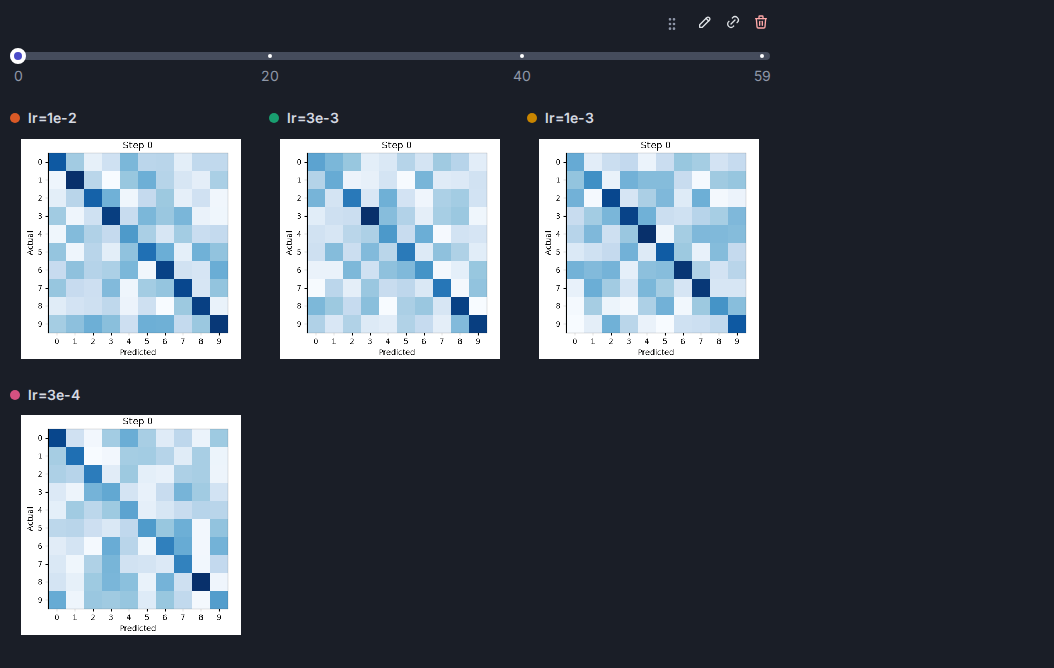
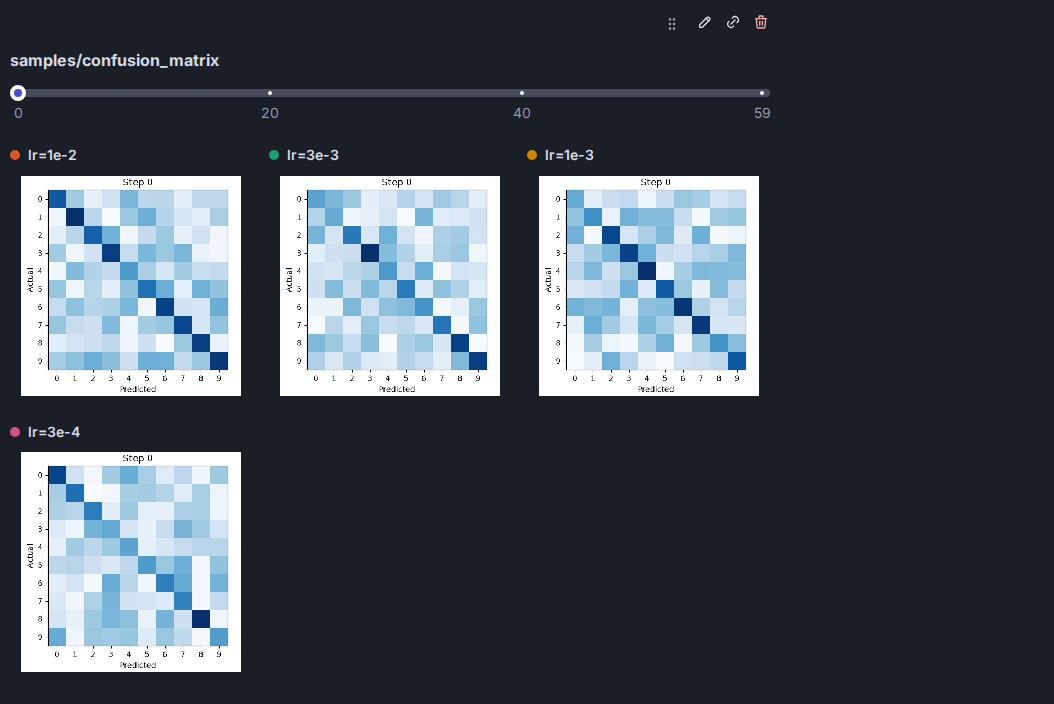
Title image-series charts, fill their width, and lock their sliders in synced panels
The chart is titled with its artifact key. A grid uses no more columns than it
has runs, so a lone run's image spans the chart rather than a third of it.
With a panel's sync on, moving one image-series slider moves the others in that
panel to the latest step each has.

Changed region(s): [[0.0, 0.0299, 0.7287, 0.9581]]

diff --git a/dlboard/plugins/charts/image_series_lock.js b/dlboard/plugins/charts/image_series_lock.js
@@ -1,0 +1,39 @@
+// biome-ignore lint/correctness/noUnusedVariables: read as the body of a Dash clientside_callback
+function imageSeriesLock(values, ids, marks) {
+    // The slider values this script set itself, by instance: their own change events are not the
+    // user's, and passing them on would bounce them back and forth between sliders whose steps differ.
+    // On `window` because Dash takes this file as one function expression, with nothing outside it.
+    window.dlImageSeriesLockedTo ??= {};
+    const lockedTo = window.dlImageSeriesLockedTo;
+    const noUpdate = window.dash_clientside.no_update;
+    const dragged = window.dash_clientside.callback_context.triggered_id;
+    const draggedIndex = dragged ? ids.findIndex((id) => id.instance === dragged.instance) : -1;
+    if (draggedIndex < 0) {
+        return noUpdate;
+    }
+    if (lockedTo[dragged.instance] === values[draggedIndex]) {
+        delete lockedTo[dragged.instance];
+        return noUpdate;
+    }
+    // A pattern-matching id is the element's DOM id as JSON with its keys sorted.
+    const element = (id) => document.getElementById(JSON.stringify(id, Object.keys(id).sort()));
+    // The panel sets this on its charts' container when its "sync" setting is on.
+    const panel = element(ids[draggedIndex])?.closest("[data-dl-panel-sync]");
+    if (!panel) {
+        return noUpdate;
+    }
+    ids.forEach((id, i) => {
+        if (i === draggedIndex || !panel.contains(element(id))) {
+            return;
+        }
+        // The latest step this slider has at or before the dragged one, like a chart does for a run
+        // that has not logged at that step: the first one if it has none yet.
+        const steps = marks[i].map((mark) => mark.value).sort((a, b) => a - b);
+        const target = steps.filter((step) => step <= values[draggedIndex]).pop() ?? steps[0];
+        if (target !== values[i]) {
+            lockedTo[id.instance] = target;
+            window.dash_clientside.set_props(id, { value: target });
+        }
+    });
+    return noUpdate;
+}

diff --git a/dlboard/tests/browser_test.py b/dlboard/tests/browser_test.py
@@ -1863,7 +1863,7 @@ def test_panel_menu_controls_mount_only_when_the_menu_opens(page: Page, live_ser
     page.locator(".experiment-card").click()
     _create_panel(page, "only")
 
-    sync_switch = page.get_by_role("switch", name="Sync crosshair across charts")
+    sync_switch = page.get_by_role("switch", name="Sync crosshair and step across charts")
     expect(sync_switch).to_have_count(0)
     _open_panel_menu(page)
     expect(sync_switch).to_have_count(1)
@@ -2117,3 +2117,50 @@ def test_an_image_charts_per_tag_display_is_edited_as_table_rows_in_the_chart_ed
     page.locator(f"#{ADD_CHART_SUBMIT_ID}").click()
 
     expect(chart).to_contain_text("took: 1.5 h")
+
+
+def test_image_series_charts_are_titled_fill_their_chart_and_share_a_synced_panels_step(
+    page: Page, live_server_url: str, tmp_path: Path
+) -> None:
+    """
+    An image chart is titled with its artifact key, and one run's image fills the chart's width rather
+    than a third of it. Its step slider moves the other image charts' in a panel that syncs, each to
+    the latest step it has, and leaves them alone once the panel's sync is switched off.
+    """
+    _create_project_and_experiment(page, live_server_url, "Image Series Experiment")
+    page.locator(".experiment-card").click()
+    experiment_id = int(page.url.rstrip("/").rsplit("/", 1)[-1])
+    api = BasicDlboardAPI(live_server_url)
+    run = api.create_run(models.NewRun(experiment_id=experiment_id))
+    wide = np.zeros((400, 1600, 3), dtype=np.uint8)
+    api.log_artifact_batch(
+        [
+            Image(key=key, image=wide, step=step).to_artifact(tmp_path, run.id, experiment_id)
+            for key, steps in {"samples/a": (0, 10), "samples/b": (0, 5)}.items()
+            for step in steps
+        ]
+    )
+    page.reload()
+    _auto_generate_charts(page)
+
+    charts = page.locator(".dl-chart-item")
+    expect(charts).to_have_count(2)
+    expect(charts.get_by_text("samples/a", exact=True)).to_be_visible()
+    expect(charts.get_by_text("samples/b", exact=True)).to_be_visible()
+    first_image_box = charts.first.locator("img").bounding_box()
+    assert first_image_box is not None
+    assert first_image_box["width"] > 600  # a lone run's image spans the chart, not a third of it
+
+    thumbs = charts.get_by_role("slider")
+    expect(thumbs).to_have_count(2)
+    thumbs.nth(0).focus()
+    page.keyboard.press("ArrowRight")
+    expect(thumbs.nth(0)).to_have_attribute("aria-valuenow", "10")
+    expect(thumbs.nth(1)).to_have_attribute("aria-valuenow", "5")  # its latest step, not a step it lacks
+
+    _open_panel_menu(page)
+    page.get_by_role("switch", name="Sync crosshair and step across charts").click()
+    thumbs.nth(0).focus()
+    page.keyboard.press("ArrowLeft")
+    expect(thumbs.nth(0)).to_have_attribute("aria-valuenow", "0")
+    expect(thumbs.nth(1)).to_have_attribute("aria-valuenow", "5")

diff --git a/dlboard/plugins/charts/tests/image_series_chart_test.py b/dlboard/plugins/charts/tests/image_series_chart_test.py
@@ -79,7 +79,7 @@ def test_hint_required_artifact_keys() -> None:
 
 def _captions_store_data(stack: object) -> dict[str, Any]:
     # dcc.Store is always the first child of the returned Stack.
-    return _props(_props(stack)["children"][0])["data"][  # pyrefly: ignore [unknown-argument-type]
+    return _props(_props(stack)["children"][1])["data"][  # pyrefly: ignore [unknown-argument-type]
         "per_run_captions"
     ]
 
@@ -171,7 +171,7 @@ def test_slider_marks_has_a_mark_for_every_step_even_when_many() -> None:
 
 def _slider_props(stack: object) -> dict[str, Any]:
     # dcc.Store is child 0; dmc.Slider is child 1.
-    return _props(_props(stack)["children"][1])  # pyrefly: ignore [unknown-argument-type]
+    return _props(_props(stack)["children"][2])  # pyrefly: ignore [unknown-argument-type]
 
 
 def test_render_slider_snaps_only_to_real_steps_and_has_bottom_margin() -> None:
@@ -202,7 +202,7 @@ def test_render_slider_marks_match_max_slider_labels_constant() -> None:
 
 def _first_run_block(stack: object) -> dict[str, Any]:
     # children: [Store, Slider, *page_grids, pager, Modal]; first page grid holds the run blocks.
-    first_grid = _props(stack)["children"][2]  # pyrefly: ignore [unknown-variable-type]
+    first_grid = _props(stack)["children"][3]  # pyrefly: ignore [unknown-variable-type]
     return _props(_props(first_grid)["children"][0])  # pyrefly: ignore [unknown-argument-type]
 
 
@@ -289,3 +289,19 @@ def test_the_per_tag_display_setting_is_described_as_a_table_of_its_display_fiel
         ("size_unit", ParameterFieldType.STR),
     ]
     assert field.default == {}
+
+
+@pytest.mark.parametrize(
+    ("n_runs", "columns"),
+    [(1, 1), (2, 2), (GRID_COLS, GRID_COLS), (GRID_COLS + 4, GRID_COLS)],
+)
+def test_render_titles_the_chart_with_its_key_and_uses_no_more_columns_than_runs(
+    n_runs: int, columns: int
+) -> None:
+    stack = ImageChart.render(ImageChartSettings(key="img"), _artifacts_df(n_runs=n_runs))
+
+    children = _props(stack)["children"]
+    assert _props(children[0])["children"] == "img"  # pyrefly: ignore [unknown-argument-type]
+    first_page = _props(children[3])  # pyrefly: ignore [unknown-argument-type]
+    assert first_page["id"]["page"] == 0
+    assert first_page["cols"] == columns

diff --git a/dlboard/plugins/charts/image_series.py b/dlboard/plugins/charts/image_series.py
@@ -226,7 +226,8 @@ class ImageChart(ChartType[ImageChartSettings, pd.DataFrame, dmc.Stack], frozen=
         page_grids = [
             dmc.SimpleGrid(
                 id={"type": "image-series-page", "instance": inst, "page": page_idx},
-                cols=GRID_COLS,
+                # No more columns than runs, so a lone run's image gets the chart's whole width, not a third.
+                cols=min(GRID_COLS, len(page_runs)),
                 style={} if page_idx == 0 else {"display": "none"},
                 children=[_run_block(rid) for rid in page_runs],
             )
@@ -246,6 +247,7 @@ class ImageChart(ChartType[ImageChartSettings, pd.DataFrame, dmc.Stack], frozen=
 
         return dmc.Stack(
             [
+                dmc.Text(parameters.key, fw=700, style={"overflowWrap": "anywhere"}),
                 dcc.Store(
                     id={"type": "image-series-data", "instance": inst},
                     data={
@@ -325,6 +327,7 @@ ImageChart.register(allow_override=True)
 
 _SCRUB_JS = ClientsideScript(Path(__file__).with_name("image_series_scrub.js"))
 _PAGE_JS = ClientsideScript(Path(__file__).with_name("image_series_page.js"))
+_LOCK_JS = ClientsideScript(Path(__file__).with_name("image_series_lock.js"))
 
 
 def plug(app: dash.Dash) -> None:
@@ -339,6 +342,15 @@ def plug(app: dash.Dash) -> None:
         ],
         dash.Input({"type": "image-series-slider", "instance": dash.MATCH}, "value"),
         dash.State({"type": "image-series-data", "instance": dash.MATCH}, "data"),
+    )
+
+    # Moves every other slider in the same synced panel (`data-dl-panel-sync`) along with the one dragged.
+    app.clientside_callback(
+        _LOCK_JS.source,
+        dash.Input({"type": "image-series-slider", "instance": dash.ALL}, "value"),
+        dash.State({"type": "image-series-slider", "instance": dash.ALL}, "id"),
+        dash.State({"type": "image-series-slider", "instance": dash.ALL}, "marks"),
+        prevent_initial_call=True,
     )
 
     app.clientside_callback(

diff --git a/dlboard/serve/_pages/_experiment/_experiment_page_state.py b/dlboard/serve/_pages/_experiment/_experiment_page_state.py
@@ -730,10 +730,14 @@ def render_panel_content_from_df(
 ) -> Component:
     """Render a panel's charts at `indexes` from an already-fetched dataframe -- see `render_panel_content`."""
     items = render_panel_charts(panel, df, indexes)
+    # Read by the image series' slider lock (`image_series_lock.js`): which charts move together.
+    sync_marker = cast("dict[str, Any]", {"data-dl-panel-sync": "1"} if panel.sync else {})
     return (
-        dmc.SimpleGrid(items, id=panel_grid_id(panel.name), cols=panel.grid_columns, spacing="lg")
+        dmc.SimpleGrid(
+            items, id=panel_grid_id(panel.name), cols=panel.grid_columns, spacing="lg", **sync_marker
+        )
         if panel.layout == "grid"
-        else dmc.Flex(items, justify="flex-start", gap="lg", wrap="wrap")
+        else dmc.Flex(items, justify="flex-start", gap="lg", wrap="wrap", **sync_marker)
     )
 
 
@@ -884,7 +888,7 @@ def panel_header_controls(panel: models.PanelInstance[Any, Any]) -> Component:
                             dmc.MenuDivider(),
                             dmc.Switch(
                                 id=panel_sync_switch_id(panel_name),
-                                label="Sync crosshair across charts",
+                                label="Sync crosshair and step across charts",
                                 checked=panel.sync,
                                 size="xs",
                                 px="sm",

diff --git a/dlboard/models/_view.py b/dlboard/models/_view.py
@@ -445,7 +445,7 @@ class PanelInstance(BaseModel, typing.Generic[_Dataframe, _Chart], frozen=True, 
     """Charts belonging to this panel."""
 
     sync: bool = True
-    """Whether synced-capable charts (e.g. line charts) in this panel share a hover/tooltip crosshair."""
+    """Whether synced-capable charts in this panel move together: line charts share a hover/tooltip crosshair, image series their step slider."""
 
     layout: typing.Literal["packed", "grid"] = "packed"
     """`"packed"` sizes each chart to its own natural width and wraps them left-to-right;

diff --git a/CHANGELOG.md b/CHANGELOG.md
@@ -14,6 +14,9 @@ pulls that section's body into the GitHub release notes and publishes both distr
 
 ### Added
 
+* A panel's **Sync crosshair and step across charts** setting now also locks its image-series sliders
+  together: moving one moves the others to the latest step each has at or before it.
+* An image-series chart is titled with its artifact key.
 * A tag can carry a unit: `tags={"took": Quantity(value=5400, unit=TimeUnit.SECONDS)}` records what the
   number was measured in (time `ns` to `d`, size `B` to `TB`, decimal); on the wire it is
   `{"value": 5400, "unit": "s"}`. The client never says how to show it: the image chart shows it in the
@@ -24,6 +27,8 @@ pulls that section's body into the GitHub release notes and publishes both distr
 
 ### Changed
 
+* An image-series chart showing fewer runs than it has columns (three) no longer leaves the other columns
+  empty: one run's image fills the chart's width, so a large chart size now enlarges it.
 * Artifact `tags` values are JSON scalars (`str | int | float | bool`) on the wire and in storage, not
   text (#179): `NewArtifact.tags` is `dict[str, TagValue]`, clients send what the caller logged
   (`tags={"score": 0.14}`), and the image-series and file-list charts format numbers the same way wherever
